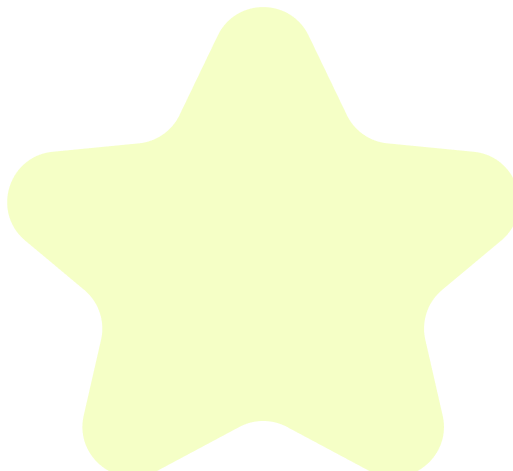
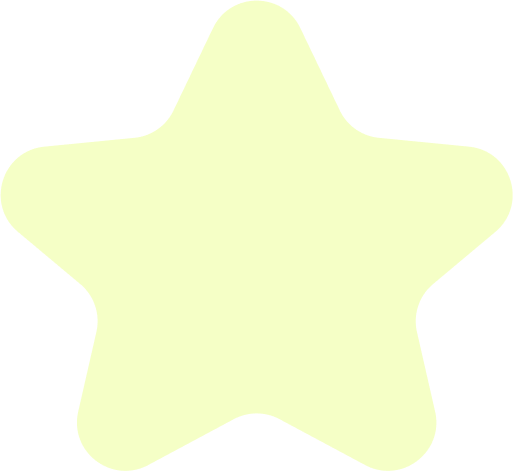
delete bulletpoint and uncrop star

diff --git a/app/static/css/style.css b/app/static/css/style.css
@@ -199,6 +199,12 @@ a:hover {
   color: var(--tertiary-color);
 }
 
+.form-input li {
+  list-style: none;
+  padding-left: 0;
+  margin: 0;
+}
+
 .error-message {
   color: red;
   font-size: 14px;
